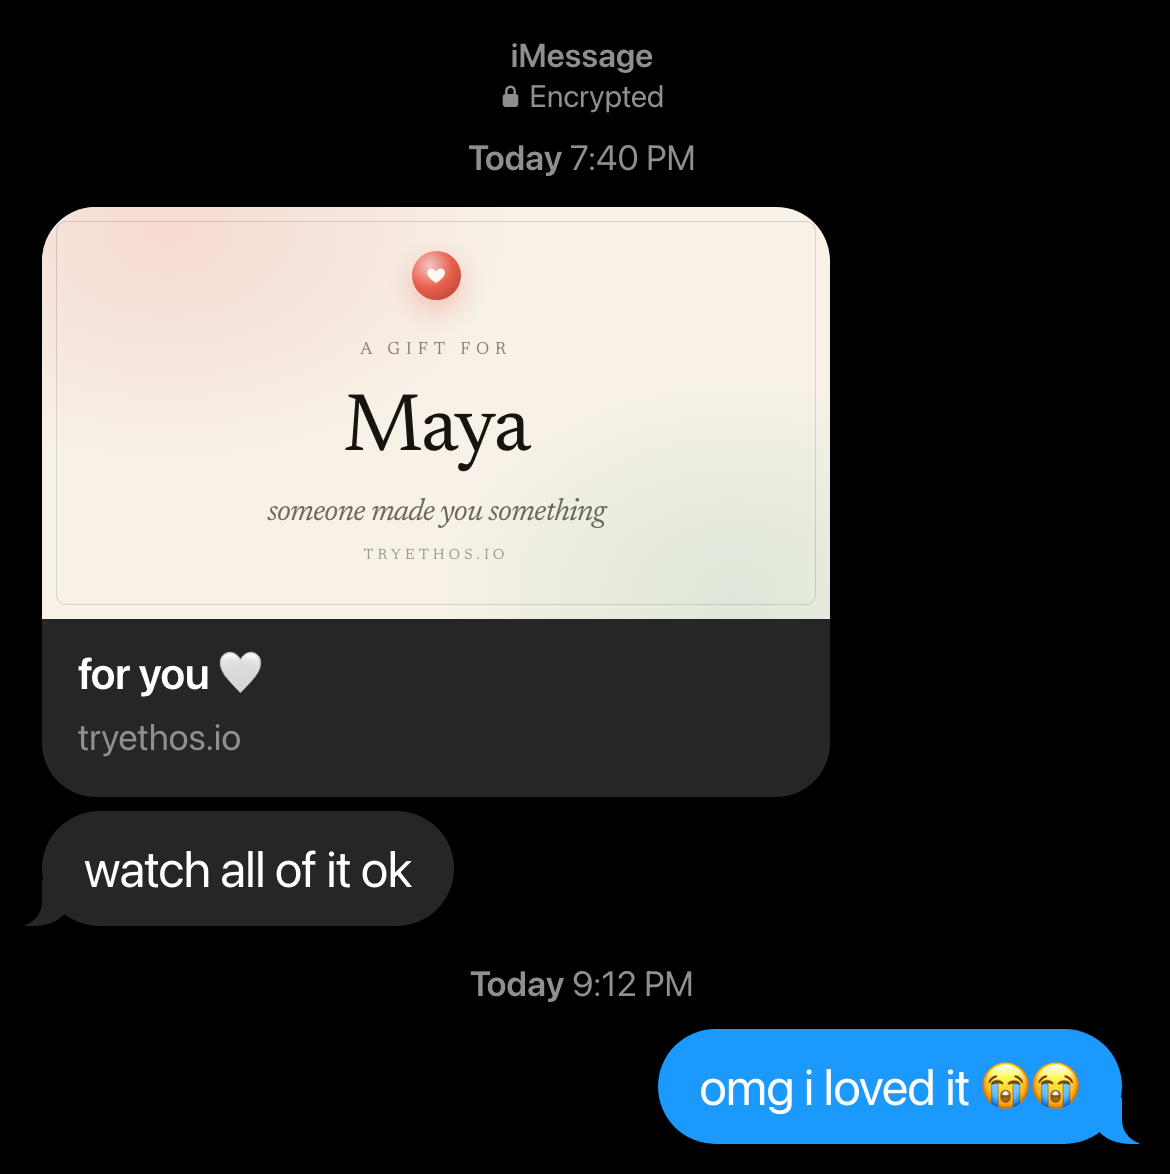
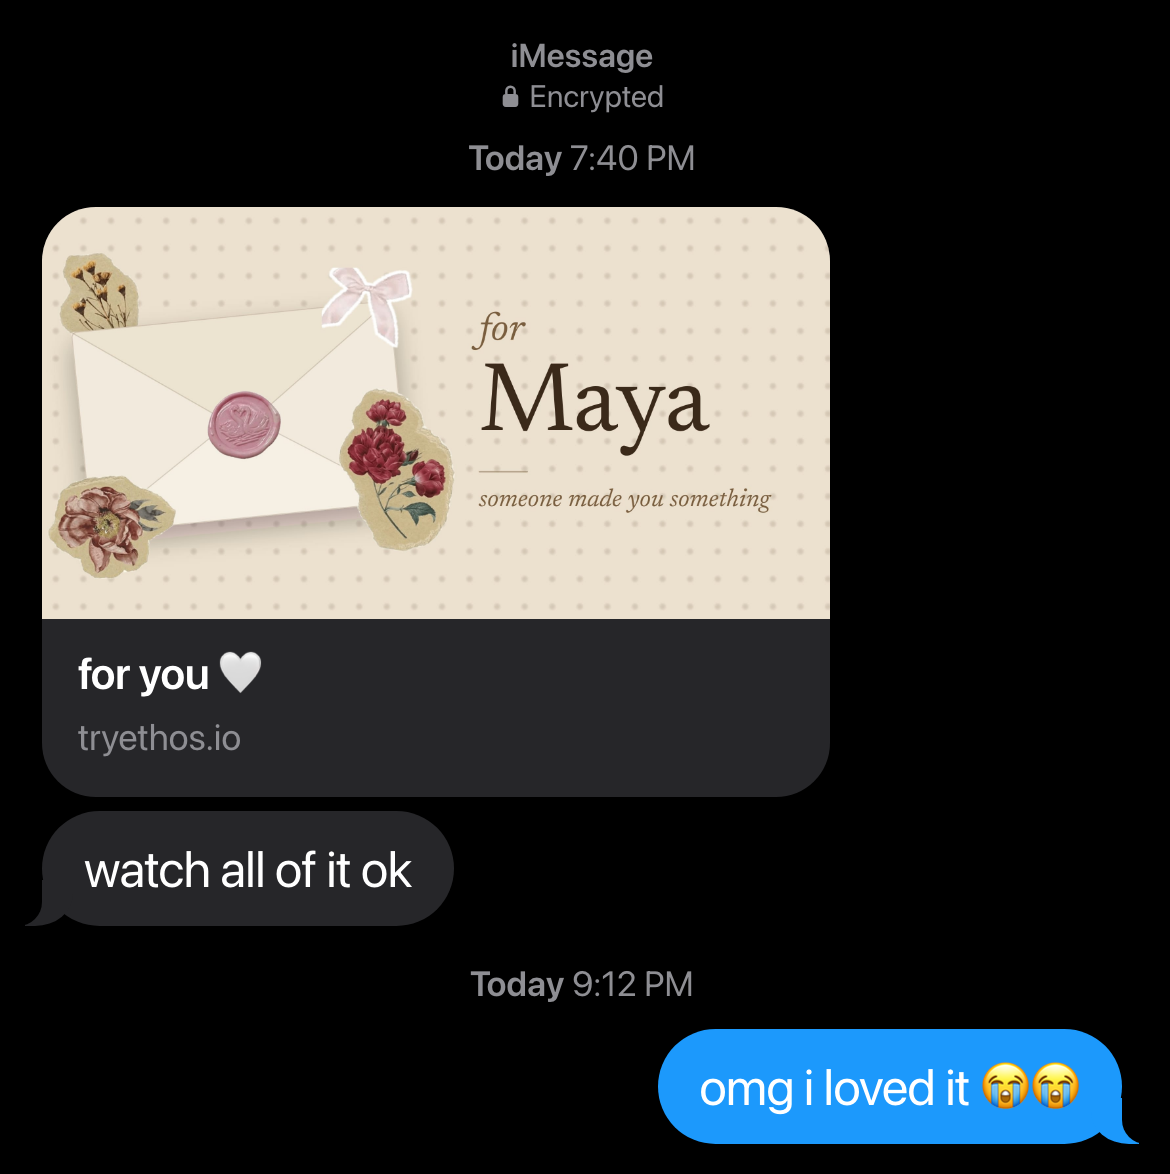
Carousels draw the real share card; 527–531 on the new envelope
scripts/share-card.mjs renders a gift's card from the same code as the
route, without a server, and the slide renderer uses it for every link
card (a link's "card" picks the paper). 527–531 re-rendered.

Changed region(s): [[0.0308, 0.184, 0.7077, 0.5213], [0.1538, 0.3373, 0.2462, 0.3986], [0.4923, 0.4906, 0.5231, 0.5213]]

diff --git a/docs/marketing/VIRAL-FORMULA.md b/docs/marketing/VIRAL-FORMULA.md
@@ -2213,6 +2213,13 @@ picture is a plain chat. Same iOS 26 dark look as 520.
 **Post order:** 529, 527, 528, 530, 531, one a day in the evening. 529 goes first because its first slide is
 plain text and its question is the one the most people will answer.
 
+**The link card (16 Oct).** The owner: the preview card "looks bland". The real one (/g/<id>/card.jpg) is now a
+sealed envelope with a wax seal, a bow and flowers, "for Maya" beside it, on one of four papers: blush gingham,
+burgundy pinstripes, pressed kraft or black. The paper follows the gift's template and look, so no two posts
+need show the same card, and the picture no longer prints the site's address. The slides draw the real card:
+a link's `"card"` picks the paper (`scripts/share-card.mjs` renders it into `docs/marketing/cards`). 529 and
+531 use blush, 527 black, 528 burgundy, 530 pressed.
+
 ## Shockers: the sentence that means something else after the gift (165 and 166)
 
 Two posts built on one move: the first bubble is the worst text a person can receive, and the
